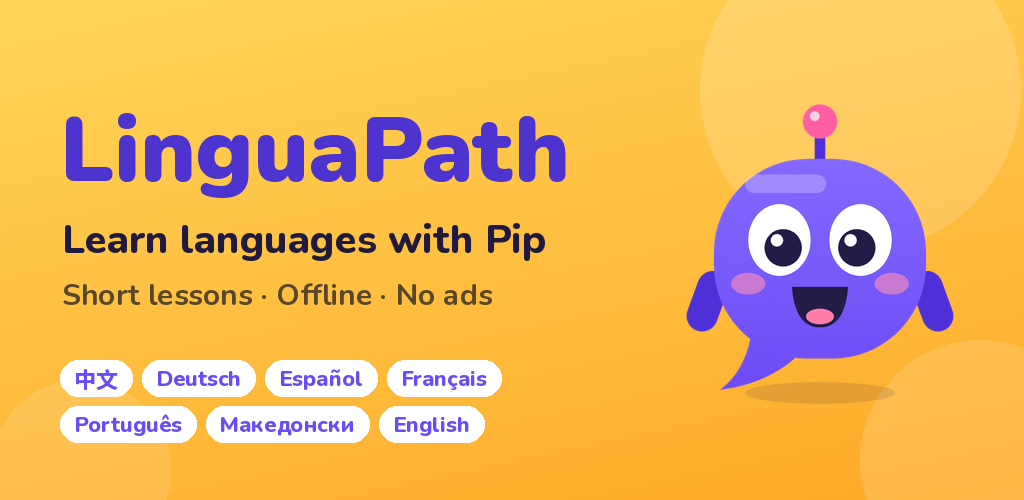
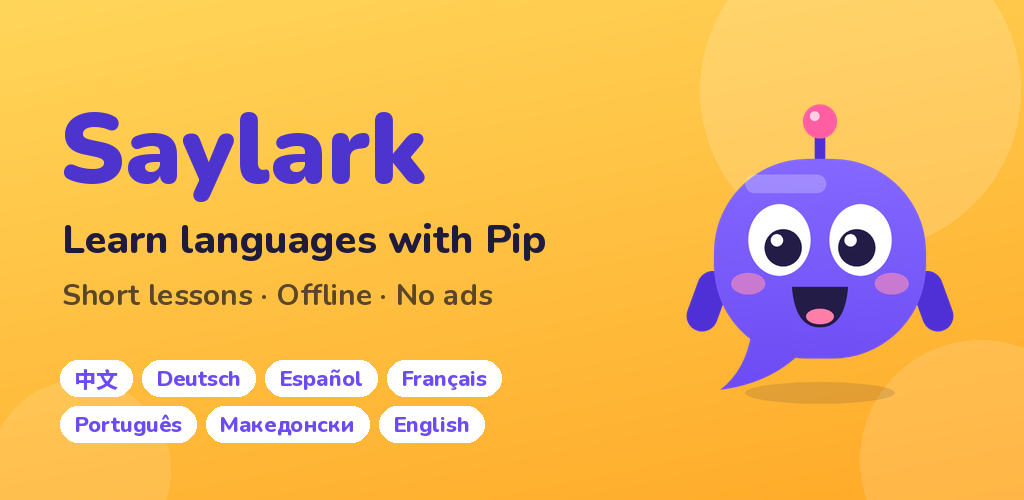
Rename the app to Saylark
App name, store listings, graphics, web page and privacy policy now say
Saylark. The Android app id becomes com.ruflo.saylark (not yet on Play,
so this is the last cheap moment) and the test APK is Saylark.apk.

Claude-Session: https://claude.ai/code/session_017oMqBrsgcY8ukK93bMDnXF

Changed region(s): [[0.0625, 0.21, 0.5625, 0.42]]

diff --git a/web/privacy.html b/web/privacy.html
@@ -3,7 +3,7 @@
 <head>
   <meta charset="UTF-8">
   <meta name="viewport" content="width=device-width, initial-scale=1">
-  <title>LinguaPath Privacy Policy</title>
+  <title>Saylark Privacy Policy</title>
   <style>
     body { font-family: Nunito, -apple-system, "Segoe UI", Roboto, sans-serif; max-width: 680px; margin: 0 auto; padding: 32px 16px 64px; line-height: 1.6; color: #1f2933; background: #fff; }
     h1 { font-size: 1.8rem; margin-bottom: 0; }
@@ -12,9 +12,9 @@
   </style>
 </head>
 <body>
-  <h1>LinguaPath Privacy Policy</h1>
+  <h1>Saylark Privacy Policy</h1>
   <p class="date">Last updated: 17 October 2026</p>
-  <p>LinguaPath is a language learning app. We built it so that it works without collecting anything about you.</p>
+  <p>Saylark is a language learning app. We built it so that it works without collecting anything about you.</p>
   <p><strong>What we collect:</strong> nothing. The app has no account, no analytics, no advertising and no network access.</p>
   <p><strong>What stays on your device:</strong> your chosen languages, lesson progress, XP, streak and review schedule are saved only in the app's private storage on your phone. Uninstalling the app or using "Reset all progress" deletes them. They are never sent to us or anyone else.</p>
   <p><strong>Pronunciation:</strong> words are spoken by your phone's built-in text-to-speech engine (for example Google Speech Services). The app sends only the word being pronounced to that engine on your device; please see your phone's text-to-speech provider for its own privacy policy.</p>

diff --git a/test/app_test.dart b/test/app_test.dart
@@ -3,10 +3,10 @@ import 'dart:io';
 
 import 'package:flutter/material.dart';
 import 'package:flutter_test/flutter_test.dart';
-import 'package:linguapath/data/models.dart';
-import 'package:linguapath/logic/app_state.dart';
-import 'package:linguapath/logic/sounds.dart';
-import 'package:linguapath/main.dart';
+import 'package:saylark/data/models.dart';
+import 'package:saylark/logic/app_state.dart';
+import 'package:saylark/logic/sounds.dart';
+import 'package:saylark/main.dart';
 import 'package:shared_preferences/shared_preferences.dart';
 
 ContentBundle loadContent() {
@@ -100,7 +100,7 @@ void main() {
     addTearDown(tester.view.reset);
     addTearDown(tester.platformDispatcher.clearAccessibilityFeaturesTestValue);
     final s = await freshState();
-    await tester.pumpWidget(LinguaPathApp(state: s));
+    await tester.pumpWidget(SaylarkApp(state: s));
     expect(find.textContaining('Which language do you want to learn?'), findsOneWidget);
     expect(s.nativeCode, 'en');
     expect(find.text('English'), findsNothing, reason: 'the base language is not offered as a course');

diff --git a/lib/main.dart b/lib/main.dart
@@ -13,11 +13,11 @@ Future<void> main() async {
   WidgetsFlutterBinding.ensureInitialized();
   final content = await ContentRepository().load();
   final prefs = await SharedPreferences.getInstance();
-  runApp(LinguaPathApp(state: AppState(content, prefs)));
+  runApp(SaylarkApp(state: AppState(content, prefs)));
 }
 
-class LinguaPathApp extends StatelessWidget {
-  const LinguaPathApp({super.key, required this.state});
+class SaylarkApp extends StatelessWidget {
+  const SaylarkApp({super.key, required this.state});
 
   final AppState state;
 
@@ -26,7 +26,7 @@ class LinguaPathApp extends StatelessWidget {
     final app = AppScope(
       state: state,
       child: MaterialApp(
-        title: 'LinguaPath',
+        title: 'Saylark',
         debugShowCheckedModeBanner: false,
         theme: buildTheme(Brightness.light),
         darkTheme: buildTheme(Brightness.dark),

diff --git a/web/index.html b/web/index.html
@@ -18,7 +18,7 @@
 
   <meta charset="UTF-8">
   <meta content="IE=Edge" http-equiv="X-UA-Compatible">
-  <meta name="description" content="LinguaPath: learn Chinese, English, German and Portuguese.">
+  <meta name="description" content="Saylark: learn Chinese, German, Spanish, French, Portuguese and Macedonian.">
 
   <!-- iOS meta tags & icons -->
   <meta name="mobile-web-app-capable" content="yes">
@@ -29,7 +29,7 @@
   <!-- Favicon -->
   <link rel="icon" type="image/png" href="favicon.png"/>
 
-  <title>LinguaPath</title>
+  <title>Saylark</title>
   <link rel="manifest" href="manifest.json">
 </head>
 <body>

diff --git a/tool/render_icons_test.dart b/tool/render_icons_test.dart
@@ -3,8 +3,8 @@
 // Output goes to tool/icons/, then tool/make_icons.py resizes it for Android, web and Play.
 import 'package:flutter/material.dart';
 import 'package:flutter_test/flutter_test.dart';
-import 'package:linguapath/ui/mascot.dart';
-import 'package:linguapath/ui/palette.dart';
+import 'package:saylark/ui/mascot.dart';
+import 'package:saylark/ui/palette.dart';
 
 Widget _canvas(Widget child) => MediaQuery(
       data: const MediaQueryData(),

diff --git a/lib/ui/mascot.dart b/lib/ui/mascot.dart
@@ -6,7 +6,7 @@ import 'palette.dart';
 
 enum MascotMood { idle, happy, cheer, sad, thinking }
 
-/// Pip, LinguaPath's guide: a little speech-bubble creature.
+/// Pip, Saylark's guide: a little speech-bubble creature.
 /// Drawn in code so it stays crisp at any size and can bob and blink.
 class Mascot extends StatefulWidget {
   const Mascot({super.key, this.mood = MascotMood.idle, this.size = 96, this.animate = true});

diff --git a/lib/screens/onboarding_screen.dart b/lib/screens/onboarding_screen.dart
@@ -28,7 +28,7 @@ class OnboardingScreen extends StatelessWidget {
           children: [
             if (!fromSettings) ...[
               Center(
-                child: Text('LinguaPath',
+                child: Text('Saylark',
                     style: theme.textTheme.headlineMedium?.copyWith(color: Palette.violet, letterSpacing: -0.5)),
               ),
               const SizedBox(height: 16),

diff --git a/lib/screens/settings_tab.dart b/lib/screens/settings_tab.dart
@@ -103,7 +103,7 @@ class SettingsTab extends StatelessWidget {
         ),
         const AboutListTile(
           icon: Icon(Icons.info_outline),
-          applicationName: 'LinguaPath',
+          applicationName: 'Saylark',
           applicationVersion: '1.0.0',
           aboutBoxChildren: [
             Text('Learn languages offline. No account, no ads, no data leaves your phone.'),

diff --git a/test/exercises_test.dart b/test/exercises_test.dart
@@ -3,8 +3,8 @@ import 'dart:io';
 import 'dart:math';
 
 import 'package:flutter_test/flutter_test.dart';
-import 'package:linguapath/data/models.dart';
-import 'package:linguapath/logic/exercises.dart';
+import 'package:saylark/data/models.dart';
+import 'package:saylark/logic/exercises.dart';
 
 void main() {
   Map<String, dynamic> read(String path) =>

diff --git a/test/answer_check_test.dart b/test/answer_check_test.dart
@@ -1,6 +1,6 @@
 import 'package:flutter_test/flutter_test.dart';
-import 'package:linguapath/data/models.dart';
-import 'package:linguapath/logic/answer_check.dart';
+import 'package:saylark/data/models.dart';
+import 'package:saylark/logic/answer_check.dart';
 
 void main() {
   bool ok(String typed, String text, [String? roman]) =>

diff --git a/lib/ui/palette.dart b/lib/ui/palette.dart
@@ -1,6 +1,6 @@
 import 'package:flutter/material.dart';
 
-/// LinguaPath's colors. Violet brand, sunny yellow highlights,
+/// Saylark's colors. Violet brand, sunny yellow highlights,
 /// and one bright color per unit so the course path feels like a journey.
 class Palette {
   static const violet = Color(0xFF6C4BF4);

diff --git a/test/content_test.dart b/test/content_test.dart
@@ -2,7 +2,7 @@ import 'dart:convert';
 import 'dart:io';
 
 import 'package:flutter_test/flutter_test.dart';
-import 'package:linguapath/data/models.dart';
+import 'package:saylark/data/models.dart';
 
 /// Guards the content files, so a new language can't ship with gaps.
 void main() {
